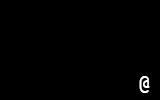
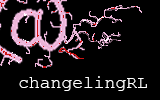
update title screen

diff --git a/game/setup_game.py b/game/setup_game.py
@@ -102,10 +102,10 @@ class MainMenu(input_handlers.BaseEventHandler):
         console.draw_semigraphics(background_image, 0, 0)
 
         console.print(
-            console.width - 16,
-            console.height - 3,
+            console.width - 14,
+            console.height - 5,
             "by -taq",
-            fg=color.purple,
+            fg=color.grey,
             alignment=tcod.CENTER,
         )
 
@@ -116,8 +116,8 @@ class MainMenu(input_handlers.BaseEventHandler):
             if i == 0 and not self.engine:
                 continue
             console.print(
-                72,
-                19 + (2*i),
+                65,
+                25 + (2*i),
                 text.ljust(menu_width),
                 fg=color.white,
                 bg=color.black,
@@ -158,7 +158,7 @@ class SubMenu(input_handlers.BaseEventHandler):
         return None
 
     def on_render(self, console:tcod.Console) -> None:
-        console.draw_semigraphics(background_image, 0, 0)
+        #console.draw_semigraphics(background_image, 0, 0)
         console.print(7,47,"(ESC) to go back")
 
     
